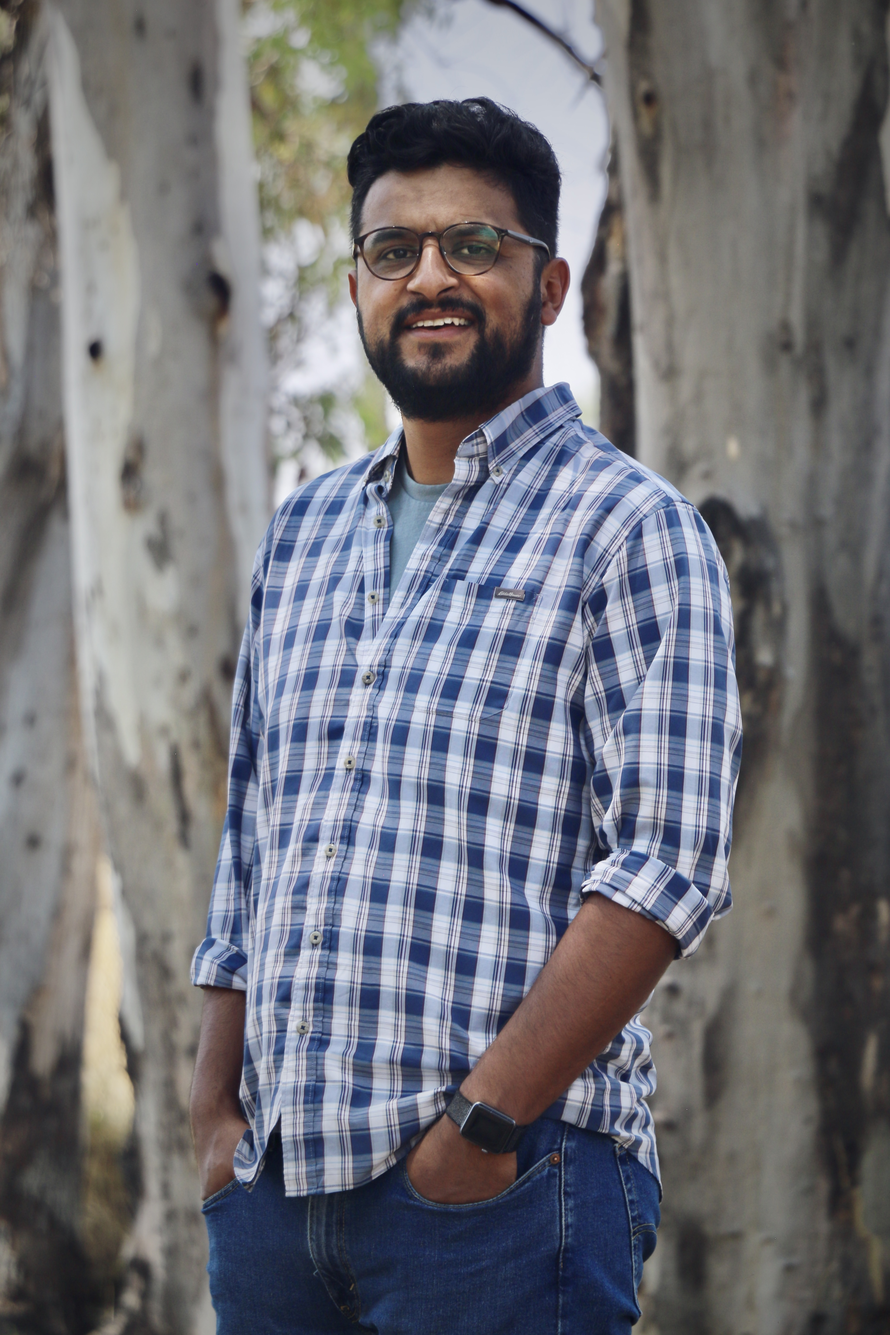
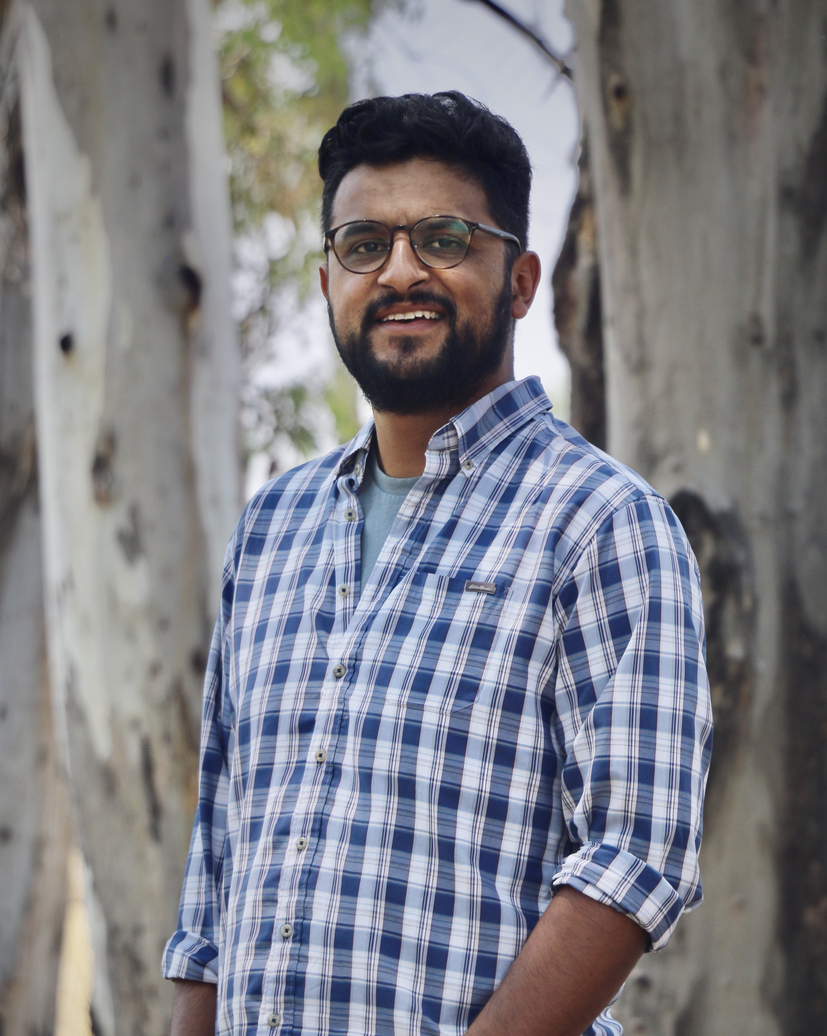
minor changes

diff --git a/_members/whiskey.md b/_members/whiskey.md
@@ -1,6 +1,6 @@
 ---
 name: Whiskey
-image: whiskey.png
+image: images/whiskey.jpg
 description: Trouble maker
 role: phd
 ---
